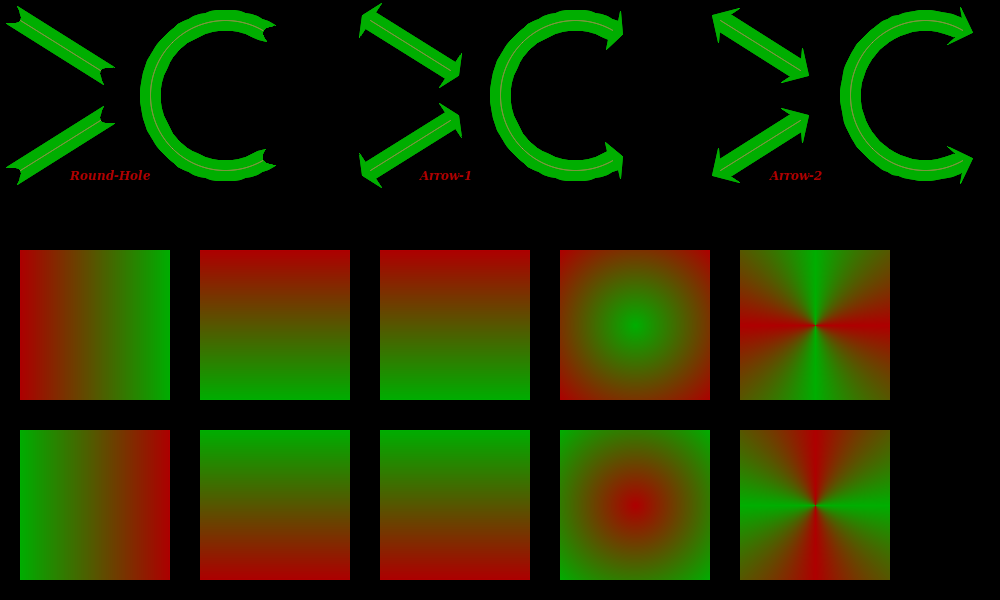
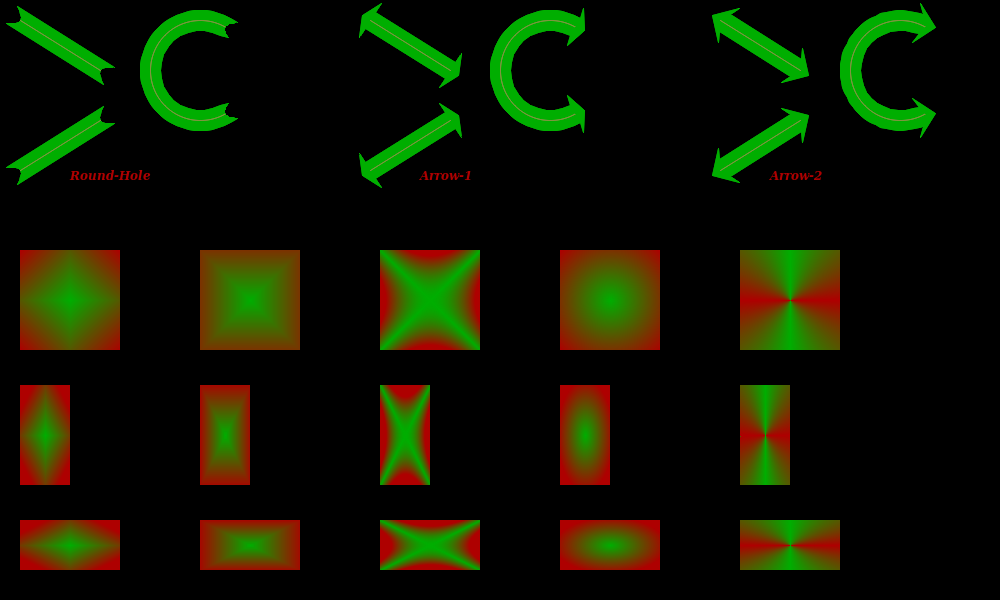
Improving gradients

diff --git a/src/Pt-Gfx/Rasterizer2.cpp b/src/Pt-Gfx/Rasterizer2.cpp
@@ -152,15 +152,17 @@ void Rasterizer2::setBrush( const Brush& brush )
             _isTexture = true;
             break;
 
-        case Brush::HorizontalGradient:
-        case Brush::VerticalGradient:
+        case Brush::HorizontalGradient : /* Fallthrough */
+        case Brush::VerticalGradient   :
             _isGradient = true;
             _brushImage = &_brushBuffer;
             break;
 
-        case Brush::RectangularGradient:
-        case Brush::RadialGradient:
-        case Brush::ConicalGradient:
+        case Brush::DiamondGradient     : /* Fallthrough */
+        case Brush::RectangularGradient : /* Fallthrough */
+        case Brush::CrossGradient       : /* Fallthrough */
+        case Brush::RadialGradient      : /* Fallthrough */
+        case Brush::ConicalGradient     :
             _isGradient        = true;
             _isGradientTexture = true;
             _brushImage        = &_brushBuffer;
@@ -327,7 +329,9 @@ void Rasterizer2::updateGradientBrush(Pt::int32_t width, Pt::int32_t height)
             _brushBuffer.reset(_image->format(), Size(1, height));
             break;
 
+        case Pt::Gfx::Brush::DiamondGradient     : /* Fallthrough */
         case Pt::Gfx::Brush::RectangularGradient : /* Fallthrough */
+        case Pt::Gfx::Brush::CrossGradient       : /* Fallthrough */
         case Pt::Gfx::Brush::RadialGradient      : /* Fallthrough */
         case Pt::Gfx::Brush::ConicalGradient     :
             // Resize the brush buffer
@@ -372,24 +376,68 @@ void Rasterizer2::updateGradientBrush(Pt::int32_t width, Pt::int32_t height)
     }
 
     // Create two-dimensional gradient
-    const float cx = width  * 0.5f;
-    const float cy = height * 0.5f;
+    const float cx  = width  * 0.5f;
+    const float cy  = height * 0.5f;
+
+    const float rxy = (cx > cy) ? (cx / cy) : 1.0f;
+    const float ryx = (cy > cx) ? (cy / cx) : 1.0f;
 
     Pt::uint8_t* pixel = _brushBuffer.data();
 
     switch(_brush.fillStyle()) {
+        case Pt::Gfx::Brush::DiamondGradient: {
+            const float ilen = 1.0f / (cx + cy);
+            for(Pt::int32_t y = 0; y < height; ++y) {
+                const float dy = fabs(y - cy) * rxy;
+                for(Pt::int32_t x = 0; x < width; ++x) {
+                    const float dx   = fabs(x - cx) * ryx;
+                    const float dist = (dx + dy) * ilen;
+                    const float mf   = (dist >= 1.0f) ? 1.0f : dist;
+                    const float imf  = 1.0f - mf;
+                    *pixel++ = (bs * mf + be * imf);
+                    *pixel++ = (gs * mf + ge * imf);
+                    *pixel++ = (rs * mf + re * imf);
+                    *pixel++ = (as * mf + ae * imf);
+                }
+            }
+            break;
+        }
+
         case Pt::Gfx::Brush::RectangularGradient: {
             const float rad  = 45.0f * Gfx::Math::PiDiv180;
             const float sval = Gfx::Math::fastSin(rad);
             const float cval = Gfx::Math::fastCos(rad);
-            const float ilen = ::sqrtf(2.0f) / (cx + cy);
+            const float ilen = 1.0f / (cx + cy);
             for(Pt::int32_t y = 0; y < height; ++y) {
-                const float dy  = y - cy;
+                const float dy = (y - cy) * rxy;
                 for(Pt::int32_t x = 0; x < width; ++x) {
-                    const float dx = x - cx;
-                    const float ry = fabs(-sval * dx + cval * dy);
-                    const float rx = fabs( cval * dx + sval * dy);
+                    const float dx   = (x - cx) * ryx;
+                    const float ry   = fabs(-sval * dx + cval * dy);
+                    const float rx   = fabs( cval * dx + sval * dy);
                     const float dist = (rx + ry) * ilen;
+                    const float mf   = (dist >= 1.0f) ? 1.0f : dist;
+                    const float imf  = 1.0f - mf;
+                    *pixel++ = (bs * mf + be * imf);
+                    *pixel++ = (gs * mf + ge * imf);
+                    *pixel++ = (rs * mf + re * imf);
+                    *pixel++ = (as * mf + ae * imf);
+                }
+            }
+            break;
+        }
+
+        case Pt::Gfx::Brush::CrossGradient: {
+            const float rad  = 45.0f * Gfx::Math::PiDiv180;
+            const float sval = Gfx::Math::fastSin(rad);
+            const float cval = Gfx::Math::fastCos(rad);
+            const float ilen = 0.1f / (cx + cy);
+            for(Pt::int32_t y = 0; y < height; ++y) {
+                const float dy = (y - cy) * rxy;
+                for(Pt::int32_t x = 0; x < width; ++x) {
+                    const float dx   = (x - cx) * ryx;
+                    const float ry   = fabs(-sval * dx + cval * dy);
+                    const float rx   = fabs( cval * dx + sval * dy);
+                    const float dist = (rx * ry) * ilen;
                     const float mf   = (dist >= 1.0f) ? 1.0f : dist;
                     const float imf  = 1.0f - mf;
                     *pixel++ = (bs * mf + be * imf);
@@ -404,9 +452,9 @@ void Rasterizer2::updateGradientBrush(Pt::int32_t width, Pt::int32_t height)
         case Pt::Gfx::Brush::RadialGradient: {
             const float ilen = 1.0f / Gfx::Math::fastSqrt(cx * cx + cy * cy);
             for(Pt::int32_t y = 0; y < height; ++y) {
-                const float dy  = y - cy;
+                const float dy  = (y - cy) * rxy;
                 for(Pt::int32_t x = 0; x < width; ++x) {
-                    const float dx = x - cx;
+                    const float dx = (x - cx) * ryx;
                     const float dist = Gfx::Math::fastSqrt(dx * dx + dy * dy) * ilen;
                     const float mf   = (dist >= 1.0f) ? 1.0f : dist;
                     const float imf  = 1.0f - mf;
@@ -421,9 +469,9 @@ void Rasterizer2::updateGradientBrush(Pt::int32_t width, Pt::int32_t height)
 
         case Pt::Gfx::Brush::ConicalGradient: {
             for(Pt::int32_t y = 0; y < height; ++y) {
-                const float dy = y - cy;
+                const float dy = (y - cy) * rxy;
                 for(Pt::int32_t x = 0; x < width; ++x) {
-                    const float dx  = x - cx;
+                    const float dx  = (x - cx) * ryx;
                     const float deg = Gfx::Math::convertCartesianToPolarCoordinate(dy, dx);
                           float mf  = 0.0f;
                           float imf = 0.0f;
@@ -449,7 +497,9 @@ void Rasterizer2::updateGradientBrush(Pt::int32_t width, Pt::int32_t height)
                     *pixel++ = (as * mf + ae * imf);
                 }
             }
-             pixel   = _brushBuffer.data() + ( (height / 2) * width + (width / 2) ) * 4;
+            const Pt::int32_t yy = round(height / 2 * rxy);
+            const Pt::int32_t xx = round(width  / 2 * ryx);
+             pixel   = _brushBuffer.data() + ( yy * width + xx ) * 4;
             *pixel++ = (bs * 0.5f + be * 0.5f);
             *pixel++ = (gs * 0.5f + ge * 0.5f);
             *pixel++ = (rs * 0.5f + re * 0.5f);

diff --git a/src/Pt-Gfx/tests/ImagePainterTest2_Draw_Extra.cpp b/src/Pt-Gfx/tests/ImagePainterTest2_Draw_Extra.cpp
@@ -26,9 +26,9 @@ static void testDrawExtra(const char* title, Image& image, Painter& painter)
     ip2->drawLine( PointF( 20, 170), PointF(100, 120) );
 
     ip2->setPen(penHRCapBJoin);
-    ip2->drawArc( PointF (150, 20), SizeF(150, 150), 60, 300, ArcMode::Open );
+    ip2->drawArc( PointF (150, 20), SizeF(100, 100), 60, 300, ArcMode::Open );
     ip2->setPen(penRef);
-    ip2->drawArc( PointF (150, 20), SizeF(150, 150), 60, 300, ArcMode::Open );
+    ip2->drawArc( PointF (150, 20), SizeF(100, 100), 60, 300, ArcMode::Open );
 
     ip2->setPen(penText);
     ip2->drawText( PointF(70, 180), "Round-Hole" );
@@ -45,9 +45,9 @@ static void testDrawExtra(const char* title, Image& image, Painter& painter)
     ip2->drawLine( PointF( 20 + 350, 170), PointF(100 + 350, 120) );
 
     ip2->setPen(penA1CapBJoin);
-    ip2->drawArc( PointF (150 + 350, 20), SizeF(150, 150), 60, 300, ArcMode::Open );
+    ip2->drawArc( PointF (150 + 350, 20), SizeF(100, 100), 60, 300, ArcMode::Open );
     ip2->setPen(penRef);
-    ip2->drawArc( PointF (150 + 350, 20), SizeF(150, 150), 60, 300, ArcMode::Open );
+    ip2->drawArc( PointF (150 + 350, 20), SizeF(100, 100), 60, 300, ArcMode::Open );
 
     ip2->setPen(penText);
     ip2->drawText( PointF(70 + 350, 180), "Arrow-1" );
@@ -64,56 +64,78 @@ static void testDrawExtra(const char* title, Image& image, Painter& painter)
     ip2->drawLine( PointF( 20 + 700, 170), PointF(100 + 700, 120) );
 
     ip2->setPen(penA2CapBJoin);
-    ip2->drawArc( PointF (150 + 700, 20), SizeF(150, 150), 60, 300, ArcMode::Open );
+    ip2->drawArc( PointF (150 + 700, 20), SizeF(100, 100), 60, 300, ArcMode::Open );
     ip2->setPen(penRef);
-    ip2->drawArc( PointF (150 + 700, 20), SizeF(150, 150), 60, 300, ArcMode::Open );
+    ip2->drawArc( PointF (150 + 700, 20), SizeF(100, 100), 60, 300, ArcMode::Open );
 
     ip2->setPen(penText);
     ip2->drawText( PointF(70 + 700, 180), "Arrow-2" );
 
     // --- Part 1 ---
 
+    // Diamond gradient
+    painter.setBrush( Brush(Color::fromRgb8(255, 0, 0, 175), Color::fromRgb8(0, 255, 0, 175), Brush::Diamond) );
+    painter.fillRect( RectF(PointF(20, 250), SizeF(100, 100)) );
+
     // Rectangular gradient
     painter.setBrush( Brush(Color::fromRgb8(255, 0, 0, 175), Color::fromRgb8(0, 255, 0, 175), Brush::Rectangular) );
-    painter.fillRect( RectF(PointF(20, 250), SizeF(150, 150)) );
+    painter.fillRect( RectF(PointF(20 + 180, 250), SizeF(100, 100)) );
+
+    // Cross gradient
+    painter.setBrush( Brush(Color::fromRgb8(255, 0, 0, 175), Color::fromRgb8(0, 255, 0, 175), Brush::Cross) );
+    painter.fillRect( RectF(PointF(20 + 360, 250), SizeF(100, 100)) );
 
     // Radial gradient
     painter.setBrush( Brush(Color::fromRgb8(255, 0, 0, 175), Color::fromRgb8(0, 255, 0, 175), Brush::Radial) );
-    painter.fillRect( RectF(PointF(20 + 180, 250), SizeF(150, 150)) );
+    painter.fillRect( RectF(PointF(20 + 540, 250), SizeF(100, 100)) );
 
     // Conical gradient
     painter.setBrush( Brush(Color::fromRgb8(255, 0, 0, 175), Color::fromRgb8(0, 255, 0, 175), Brush::Conical) );
-    painter.fillRect( RectF(PointF(20 + 360, 250), SizeF(150, 150)) );
-
-    // Horizontal gradient
-    painter.setBrush( Brush(Color::fromRgb8(255, 0, 0, 175), Color::fromRgb8(0, 255, 0, 175), Brush::Horizontal) );
-    painter.fillRect( RectF(PointF(20 + 540, 250), SizeF(150, 150)) );
-
-    // Vertical gradient
-    painter.setBrush( Brush(Color::fromRgb8(255, 0, 0, 175), Color::fromRgb8(0, 255, 0, 175), Brush::Vertical) );
-    painter.fillRect( RectF(PointF(20 + 720, 250), SizeF(150, 150)) );
+    painter.fillRect( RectF(PointF(20 + 720, 250), SizeF(100, 100)) );
 
     // --- Part 2 ---
 
+    // Diamond gradient
+    painter.setBrush( Brush(Color::fromRgb8(255, 0, 0, 175), Color::fromRgb8(0, 255, 0, 175), Brush::Diamond) );
+    painter.fillRect( RectF(PointF(20, 250 + 135), SizeF(50, 100)) );
+
     // Rectangular gradient
-    painter.setBrush( Brush(Color::fromRgb8(0, 255, 0, 175), Color::fromRgb8(255, 0, 0, 175), Brush::Rectangular) );
-    painter.fillRect( RectF(PointF(20, 250 + 180), SizeF(150, 150)) );
+    painter.setBrush( Brush(Color::fromRgb8(255, 0, 0, 175), Color::fromRgb8(0, 255, 0, 175), Brush::Rectangular) );
+    painter.fillRect( RectF(PointF(20 + 180, 250 + 135), SizeF(50, 100)) );
+
+    // Cross gradient
+    painter.setBrush( Brush(Color::fromRgb8(255, 0, 0, 175), Color::fromRgb8(0, 255, 0, 175), Brush::Cross) );
+    painter.fillRect( RectF(PointF(20 + 360, 250 + 135), SizeF(50, 100)) );
 
     // Radial gradient
-    painter.setBrush( Brush(Color::fromRgb8(0, 255, 0, 175), Color::fromRgb8(255, 0, 0, 175), Brush::Radial) );
-    painter.fillRect( RectF(PointF(20 + 180, 250 + 180), SizeF(150, 150)) );
+    painter.setBrush( Brush(Color::fromRgb8(255, 0, 0, 175), Color::fromRgb8(0, 255, 0, 175), Brush::Radial) );
+    painter.fillRect( RectF(PointF(20 + 540, 250 + 135), SizeF(50, 100)) );
 
     // Conical gradient
-    painter.setBrush( Brush(Color::fromRgb8(0, 255, 0, 175), Color::fromRgb8(255, 0, 0, 175), Brush::Conical) );
-    painter.fillRect( RectF(PointF(20 + 360, 250 + 180), SizeF(150, 150)) );
+    painter.setBrush( Brush(Color::fromRgb8(255, 0, 0, 175), Color::fromRgb8(0, 255, 0, 175), Brush::Conical) );
+    painter.fillRect( RectF(PointF(20 + 720, 250 + 135), SizeF(50, 100)) );
 
-    // Horizontal gradient
-    painter.setBrush( Brush(Color::fromRgb8(0, 255, 0, 175), Color::fromRgb8(255, 0, 0, 175), Brush::Horizontal) );
-    painter.fillRect( RectF(PointF(20 + 540, 250 + 180), SizeF(150, 150)) );
+    // --- Part 3 ---
 
-    // Vertical gradient
-    painter.setBrush( Brush(Color::fromRgb8(0, 255, 0, 175), Color::fromRgb8(255, 0, 0, 175), Brush::Vertical) );
-    painter.fillRect( RectF(PointF(20 + 720, 250 + 180), SizeF(150, 150)) );
+    // Diamond gradient
+    painter.setBrush( Brush(Color::fromRgb8(255, 0, 0, 175), Color::fromRgb8(0, 255, 0, 175), Brush::Diamond) );
+    painter.fillRect( RectF(PointF(20, 250 + 270), SizeF(100, 50)) );
+
+    // Rectangular gradient
+    painter.setBrush( Brush(Color::fromRgb8(255, 0, 0, 175), Color::fromRgb8(0, 255, 0, 175), Brush::Rectangular) );
+    painter.fillRect( RectF(PointF(20 + 180, 250 + 270), SizeF(100, 50)) );
+
+    // Cross gradient
+    painter.setBrush( Brush(Color::fromRgb8(255, 0, 0, 175), Color::fromRgb8(0, 255, 0, 175), Brush::Cross) );
+    painter.fillRect( RectF(PointF(20 + 360, 250 + 270), SizeF(100, 50)) );
+
+    // Radial gradient
+    painter.setBrush( Brush(Color::fromRgb8(255, 0, 0, 175), Color::fromRgb8(0, 255, 0, 175), Brush::Radial) );
+    painter.fillRect( RectF(PointF(20 + 540, 250 + 270), SizeF(100, 50)) );
+
+    // Conical gradient
+    painter.setBrush( Brush(Color::fromRgb8(255, 0, 0, 175), Color::fromRgb8(0, 255, 0, 175), Brush::Conical) );
+    painter.fillRect( RectF(PointF(20 + 720, 250 + 270), SizeF(100, 50)) );
 
     sdlPreviewRGB888Buffer(title, image.data(), image.width(), image.height(), !!ip2);
 }

diff --git a/src/Pt-Gfx/tests/ImagePainterTest2.cpp b/src/Pt-Gfx/tests/ImagePainterTest2.cpp
@@ -71,29 +71,29 @@ using namespace Pt::Gfx;
 
 // Detailed-test enable settings for Pt-Gfx
 #define TEST_SOURCECOPY                         1
-#define TEST_SOURCEOVER                         0
+#define TEST_SOURCEOVER                         1
 
-#define TEST_DRAW_SOLID_LINE_AND_TEXT           0 // (including bezier)
-#define TEST_DRAW_PATTERNED_LINE                0 // (including bezier)
-#define TEST_DRAW_SOLID_THICK_LINE              0 // (including bezier)
-#define TEST_DRAW_PATTERNED_THICK_LINE          0 // (including bezier)
+#define TEST_DRAW_SOLID_LINE_AND_TEXT           1 // (including bezier)
+#define TEST_DRAW_PATTERNED_LINE                1 // (including bezier)
+#define TEST_DRAW_SOLID_THICK_LINE              1 // (including bezier)
+#define TEST_DRAW_PATTERNED_THICK_LINE          1 // (including bezier)
 
-#define TEST_DRAW_OMPF_RECTANGLES               0 // (including thick and filled)
-#define TEST_DRAW_ROUND_OMPF_RECTANGLES         0 // (including thick and filled)
+#define TEST_DRAW_OMPF_RECTANGLES               1 // (including thick and filled)
+#define TEST_DRAW_ROUND_OMPF_RECTANGLES         1 // (including thick and filled)
 
-#define TEST_DRAW_ELLIPSES_ARCS                 0
-#define TEST_DRAW_SOLID_THICK_ELLIPSES_ARCS     0
-#define TEST_DRAW_PATTERNED_THICK_ELLIPSES_ARCS 0
+#define TEST_DRAW_ELLIPSES_ARCS                 1
+#define TEST_DRAW_SOLID_THICK_ELLIPSES_ARCS     1
+#define TEST_DRAW_PATTERNED_THICK_ELLIPSES_ARCS 1
 
-#define TEST_DRAW_SOLID_FILLED_POLYGONS         0
-#define TEST_DRAW_GRADIENT_FILLED_POLYGONS      0
-#define TEST_DRAW_TEXTURE_FILLED_POLYGONS       0
+#define TEST_DRAW_SOLID_FILLED_POLYGONS         1
+#define TEST_DRAW_GRADIENT_FILLED_POLYGONS      1
+#define TEST_DRAW_TEXTURE_FILLED_POLYGONS       1
 
-#define TEST_DRAW_SOLID_FILLED_ELLIPSES_ARCS    0
-#define TEST_DRAW_GRADIENT_FILLED_ELLIPSES_ARCS 0
-#define TEST_DRAW_TEXTURE_FILLED_ELLIPSES_ARCS  0
+#define TEST_DRAW_SOLID_FILLED_ELLIPSES_ARCS    1
+#define TEST_DRAW_GRADIENT_FILLED_ELLIPSES_ARCS 1
+#define TEST_DRAW_TEXTURE_FILLED_ELLIPSES_ARCS  1
 
-#define TEST_DRAW_PATH                          0 // (including thick and filled)
+#define TEST_DRAW_PATH                          1 // (including thick and filled)
 #define TEST_DRAW_EXTRA                         1 // (including thick and filled)
 
 #define TEST_COMPARE_WITH_OLD_PAINTER           0 // (for some shapes only)

diff --git a/include/Pt/Gfx/Brush.h b/include/Pt/Gfx/Brush.h
@@ -48,18 +48,22 @@ class PT_GFX_API Brush
             Texture             = 1,
             HorizontalGradient  = 2,
             VerticalGradient    = 3,
-            RectangularGradient = 4,
-            RadialGradient      = 5,
-            ConicalGradient     = 6
+            DiamondGradient     = 4,
+            RectangularGradient = 5,
+            CrossGradient       = 6,
+            RadialGradient      = 7,
+            ConicalGradient     = 8
         };
 
         enum GradientDirection
         {
             Horizontal  =  0,
             Vertical    =  1,
-            Rectangular =  2,
-            Radial      =  3,
-            Conical     =  4
+            Diamond     =  2,
+            Rectangular =  3,
+            Cross       =  4,
+            Radial      =  5,
+            Conical     =  6
         };
 
     public:

diff --git a/src/Pt-Gfx/Brush.cpp b/src/Pt-Gfx/Brush.cpp
@@ -119,7 +119,9 @@ BrushData::BrushData(const Color& from, const Color& to, Brush::GradientDirectio
     switch(g) {
         case Brush::Horizontal  : _fillStyle = Brush::HorizontalGradient;  break;
         case Brush::Vertical    : _fillStyle = Brush::VerticalGradient;    break;
+        case Brush::Diamond     : _fillStyle = Brush::DiamondGradient;     break;
         case Brush::Rectangular : _fillStyle = Brush::RectangularGradient; break;
+        case Brush::Cross       : _fillStyle = Brush::CrossGradient;       break;
         case Brush::Radial      : _fillStyle = Brush::RadialGradient;      break;
         case Brush::Conical     : _fillStyle = Brush::ConicalGradient;     break;
         default                 : _fillStyle = Brush::Solid;               break;
